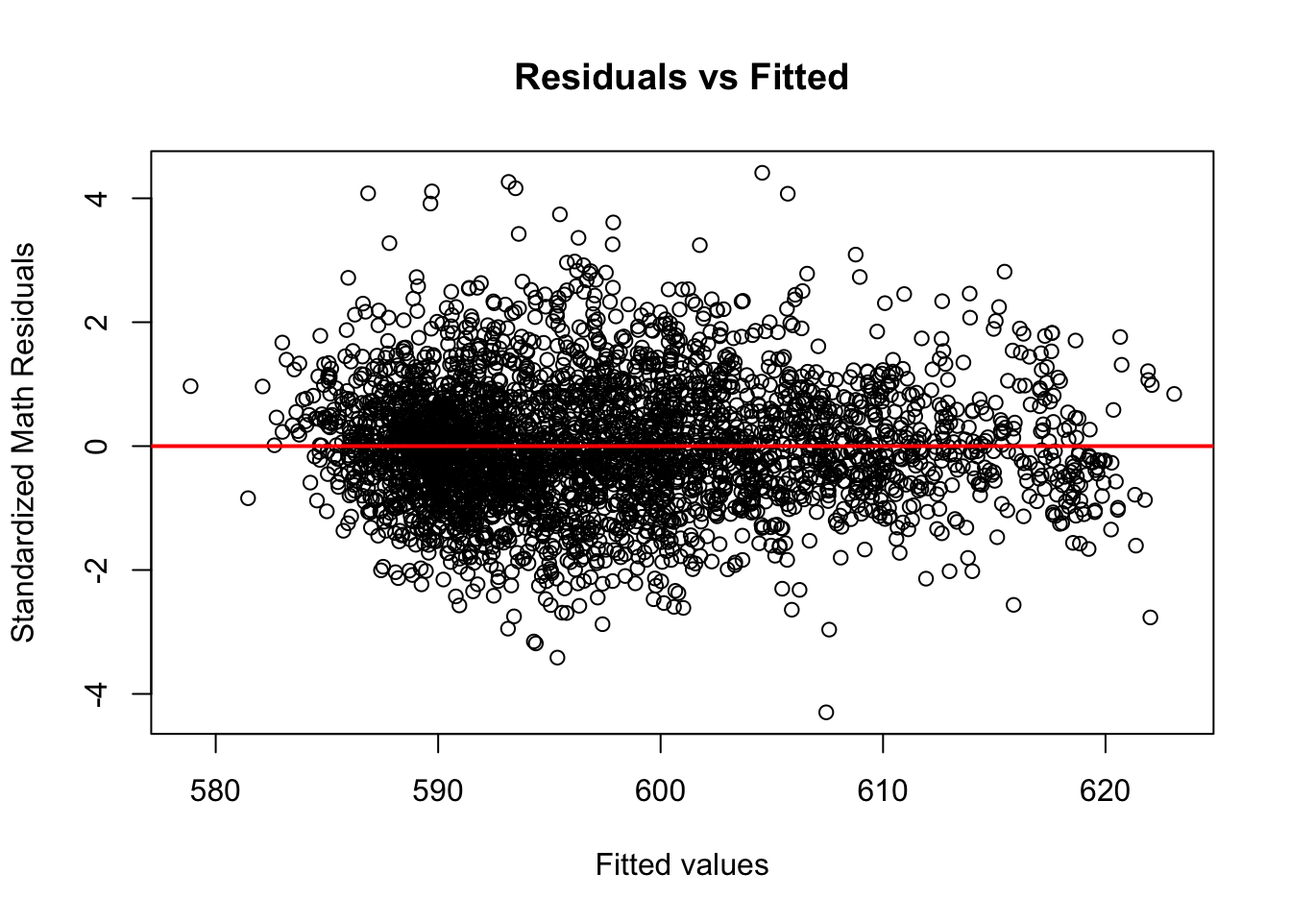
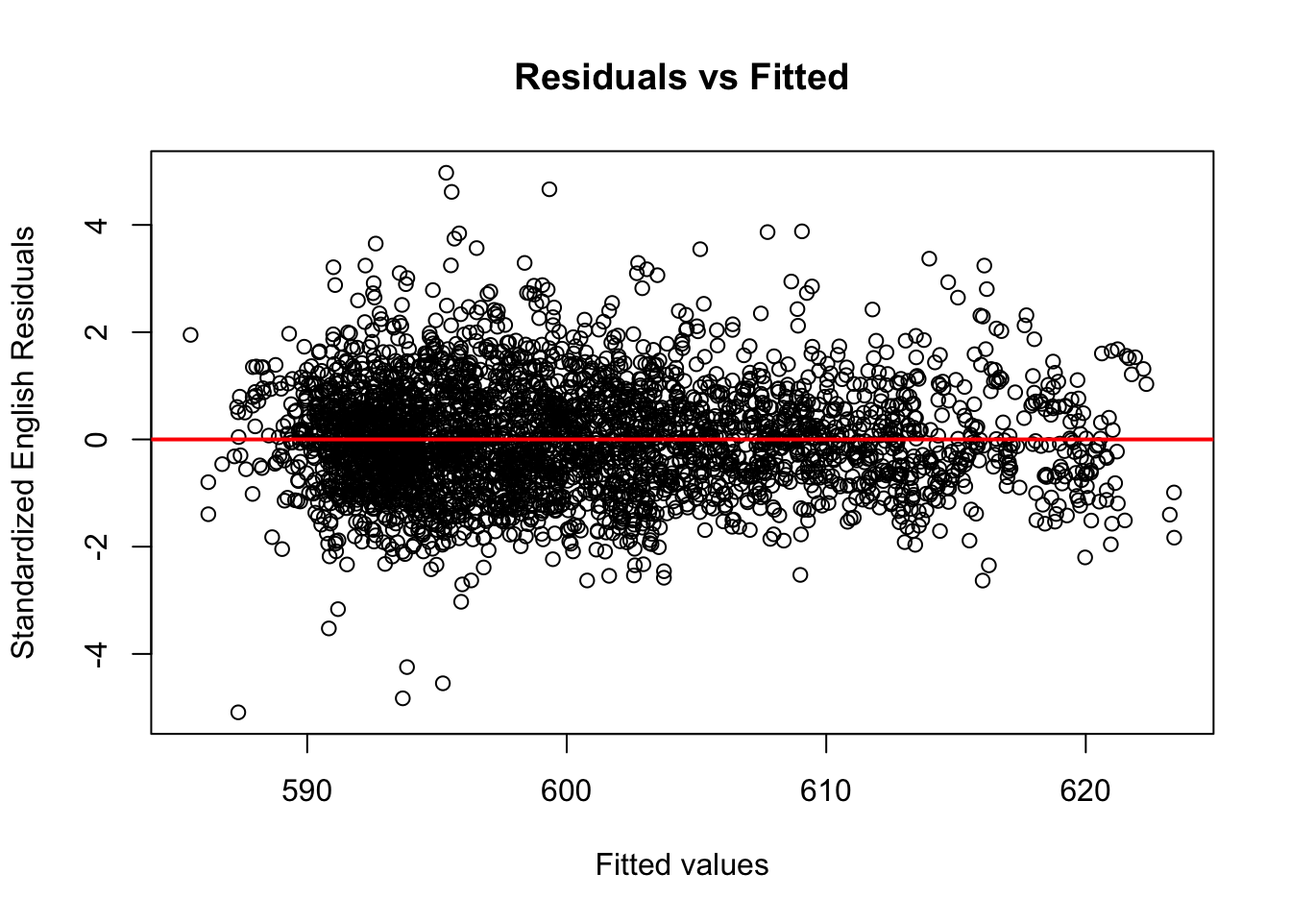
Section 4.1 edits

diff --git a/docs/results.html b/docs/results.html
@@ -23,7 +23,7 @@
 <meta name="author" content="Woomy Michel and Dillon Sparks" />
 
 
-<meta name="date" content="2024-07-05" />
+<meta name="date" content="2024-07-18" />
 
   <meta name="viewport" content="width=device-width, initial-scale=1" />
   <meta name="apple-mobile-web-app-capable" content="yes" />
@@ -31,7 +31,7 @@
   
   
 <link rel="prev" href="data.html"/>
-<link rel="next" href="interactive-component.html"/>
+<link rel="next" href="conclusion.html"/>
 <script src="libs/jquery-3.6.0/jquery-3.6.0.min.js"></script>
 <script src="https://cdn.jsdelivr.net/npm/fuse.js@6.4.6/dist/fuse.min.js"></script>
 <link href="libs/gitbook-2.6.7/css/style.css" rel="stylesheet" />
@@ -103,6 +103,7 @@
 <li class="chapter" data-level="4.1.3" data-path="results.html"><a href="results.html#correlation-analysis"><i class="fa fa-check"></i><b>4.1.3</b> Correlation Analysis</a></li>
 <li class="chapter" data-level="4.1.4" data-path="results.html"><a href="results.html#density-histogram-of-test-scores"><i class="fa fa-check"></i><b>4.1.4</b> Density Histogram of Test Scores</a></li>
 <li class="chapter" data-level="4.1.5" data-path="results.html"><a href="results.html#confidence-intervals"><i class="fa fa-check"></i><b>4.1.5</b> Confidence Intervals</a></li>
+<li class="chapter" data-level="4.1.6" data-path="results.html"><a href="results.html#main-takeaways"><i class="fa fa-check"></i><b>4.1.6</b> Main Takeaways</a></li>
 </ul></li>
 <li class="chapter" data-level="4.2" data-path="results.html"><a href="results.html#analyzing-student-demographics"><i class="fa fa-check"></i><b>4.2</b> Analyzing student demographics</a>
 <ul>
@@ -118,11 +119,10 @@
 <li class="chapter" data-level="4.3.4" data-path="results.html"><a href="results.html#glm-math"><i class="fa fa-check"></i><b>4.3.4</b> GLM (Math)</a></li>
 </ul></li>
 </ul></li>
-<li class="chapter" data-level="5" data-path="interactive-component.html"><a href="interactive-component.html"><i class="fa fa-check"></i><b>5</b> Interactive component</a></li>
-<li class="chapter" data-level="6" data-path="conclusion.html"><a href="conclusion.html"><i class="fa fa-check"></i><b>6</b> Conclusion</a></li>
-<li class="chapter" data-level="7" data-path="appendix.html"><a href="appendix.html"><i class="fa fa-check"></i><b>7</b> Appendix</a>
+<li class="chapter" data-level="5" data-path="conclusion.html"><a href="conclusion.html"><i class="fa fa-check"></i><b>5</b> Conclusion</a></li>
+<li class="chapter" data-level="6" data-path="appendix.html"><a href="appendix.html"><i class="fa fa-check"></i><b>6</b> Appendix</a>
 <ul>
-<li class="chapter" data-level="7.1" data-path="appendix.html"><a href="appendix.html#data-cleaningtransformation"><i class="fa fa-check"></i><b>7.1</b> Data Cleaning/Transformation</a></li>
+<li class="chapter" data-level="6.1" data-path="appendix.html"><a href="appendix.html#data-cleaningtransformation"><i class="fa fa-check"></i><b>6.1</b> Data Cleaning/Transformation</a></li>
 </ul></li>
 <li class="divider"></li>
 <li><a href="https://github.com/rstudio/bookdown" target="blank">Published with bookdown</a></li>
@@ -147,10 +147,10 @@
 <h1><span class="header-section-number">Chapter 4</span> Results<a href="results.html#results" class="anchor-section" aria-label="Anchor link to header"></a></h1>
 <div id="analyzing-standardized-test-scores" class="section level2 hasAnchor" number="4.1">
 <h2><span class="header-section-number">4.1</span> Analyzing standardized test scores<a href="results.html#analyzing-standardized-test-scores" class="anchor-section" aria-label="Anchor link to header"></a></h2>
+<p>In order to investigate the larger question of how student demographics impact test scores, we need to take analyze the test scores themselves.</p>
 <div id="descriptive-statistics" class="section level3 hasAnchor" number="4.1.1">
 <h3><span class="header-section-number">4.1.1</span> Descriptive Statistics<a href="results.html#descriptive-statistics" class="anchor-section" aria-label="Anchor link to header"></a></h3>
-<p> 
- </p>
+<p>First, we’ll start off by looking at a few descriptive statistics to see what they tell us about the Math and ELA test scores. The tables below contain basic descriptive statistics for each exam over the years. Each data point, i.e. test score, represents the mean score from grades 3-8 in the respective exam.</p>
 <table class="table table-condensed">
 <thead>
 <tr>
@@ -282,6 +282,11 @@ Shapiro-Wilk p value
 </tr>
 </tbody>
 </table>
+<p>Here are a few notes about this table:</p>
+<ul>
+<li><p>The p-value for our Shapiro-Wilk normality test is 0 each year. This means the distribution of test scores is not normal in any year, and we must keep this in mind for any analyses/visualizations done with this data.</p></li>
+<li><p>2022 was an interesting year because    </p></li>
+</ul>
 <table class="table table-condensed">
 <thead>
 <tr>
@@ -413,27 +418,22 @@ Shapiro-Wilk p value
 </tr>
 </tbody>
 </table>
-<p> 
- </p>
 </div>
 <div id="reading-vs.-math-scatterplot" class="section level3 hasAnchor" number="4.1.2">
 <h3><span class="header-section-number">4.1.2</span> Reading vs. Math Scatterplot<a href="results.html#reading-vs.-math-scatterplot" class="anchor-section" aria-label="Anchor link to header"></a></h3>
-<p>In investigating the relationship between Reading and Math scores, we started very broad by asking ourselves if there is a correlation between success on Math &amp; success on ELA. We chose to break this down at the school level, because there is a lot more data for us to work with.</p>
-<p> 
- </p>
-<p><img src="finalproj_files/figure-html/unnamed-chunk-7-1.png" width="672" />
- 
- </p>
-<p>The graphs above are three scatterplots of reading vs math test scores, separated based on the year the test was taken. The two main takeaways here are that there seems to be a strong positive correlation between reading and math scores in all three years, as one might expect. In other words, schools that performed well in math usually did well on reading too, and vice-versa. There were a few outliers each year, where some schools did noticeably better on math than on reading. There were also a few, less noticeable, schools who performed slightly better on ELA than on math.</p>
-<p> 
- </p>
+<p>In investigating the relationship between Reading and Math scores, we started very broad by asking ourselves: <b> is there a correlation between success on Math &amp; success on ELA? </b> We chose to break this down at the school level, because there is more data for us to work with compared to scores at the district level.</p>
+<p>   </p>
+<p><img src="finalproj_files/figure-html/unnamed-chunk-8-1.png" width="672" /></p>
+<p>   </p>
+<p>The graphs above are three scatterplots of reading vs math test scores, separated based on the year the test was taken. The first main takeaway here is that there seems to be a strong positive correlation between reading and math scores in all three years, as one might expect. In other words, schools that performed well in math usually did well on reading too, and vice-versa. There were a few outliers each year, where some schools did noticeably better on math than on reading. There were also a few, less noticeable, schools who performed slightly better on ELA than on math.</p>
+<p>The second big takeaway from these scatterplots is that math scores were noticeably lower in 2022 than in years prior. There is also more variance in scores in 2022, which is demonstrated by higher variance of our scatterplot than in the other two years. We can likely attribute this to the onset of the Covid-19 global pandemic, which abruptly forced students to adapt to online learning for anywhere between six months to an entire school year.</p>
+<p>   </p>
 </div>
 <div id="correlation-analysis" class="section level3 hasAnchor" number="4.1.3">
 <h3><span class="header-section-number">4.1.3</span> Correlation Analysis<a href="results.html#correlation-analysis" class="anchor-section" aria-label="Anchor link to header"></a></h3>
-<p>Let’s find the correlation between the Math and ELA scores to gain more insight on them analytically:</p>
-<p>Since the Math and ELA scores are not normally distributed in any year we will use the Spearman’s correlation to examine the strength of the linear relationship between scores in each year. The data meets the assumptions for calculating Spearman’s correlation coefficient because test scores each year are on an interval scale, they represent paired observations, and they have a monotonic relationship (as shown above). This is what we get:</p>
-<p> 
- </p>
+<p>Now that we have examined the linear relationship between Math and ELA scores graphically, let’s see if we can find any more information by doing so analytically.</p>
+<p>We will use the Spearman’s correlation to examine the strength of the linear relationship between scores in each year since they are not normally distributed. The data meets the assumptions for calculating Spearman’s correlation coefficient because test scores each year are on an interval scale, they represent paired observations, and they have a monotonic relationship (as shown above). This is what we get:</p>
+<p>   </p>
 <table class="table table-condensed">
 <thead>
 <tr>
@@ -467,35 +467,25 @@ Spearman correlation coefficient
 </tr>
 </tbody>
 </table>
-<p> 
- </p>
-<p>The second big takeaway from these scatterplots is that math scores were much lower in 2022 than in years prior. There is also more variance in scores in 2022, which is demonstrated by the relatively lower correlation coefficient and the higher variance of our scatterplot than in the other two years. We can likely attribute this to the onset of the Covid-19 global pandemic, which abruptly forced students to adapt to online learning for anywhere between six months to an entire school year.</p>
-<p>Let’s look at the spread of the scores during these years:</p>
-<p>Looking at this table we can confirm that the variance was higher for Math &amp; ELA in 2022.</p>
-<p> 
- </p>
+<p>   </p>
+<p>Looking at this table, we can see that the linear relationship between scores on the two exams is fairly strong, as expected. Furthermore, the correlation coefficient was slightly lower in 2022 as we saw from our scatterplot. Generally speaking, we know that a relatively high achieveing Math school also did well on ELA (and vice-versa). However, this leads us to wonder <b> is there a difference between Math and ELA scores over the years?</b></p>
+<p>   </p>
 </div>
 <div id="density-histogram-of-test-scores" class="section level3 hasAnchor" number="4.1.4">
 <h3><span class="header-section-number">4.1.4</span> Density Histogram of Test Scores<a href="results.html#density-histogram-of-test-scores" class="anchor-section" aria-label="Anchor link to header"></a></h3>
-<p> 
- </p>
-<p>Now that we’ve investigated the relationship between success on both exams, we want to know which exam students actually performed better on, over the years. Again, we are looking at this data on the school level because there is more data to work with.</p>
-<p> 
- </p>
-<p><img src="finalproj_files/figure-html/unnamed-chunk-9-1.png" width="672" /></p>
-<p> 
- </p>
-<p>Looking at our density histograms, we can see that there is a lot of overlap between scores in both subjects in this three year sample size. At first glance, it seems like student’s are performing slightly better on ELA than Math.</p>
-<p> 
- </p>
+<p>   </p>
+<p>Again, we will start with a visualization to investigate the question of which exam students actually performed better on, over the years. Again, we are looking at this data on the school level because there is more data to work with, and thus, more nuance to be uncovered.</p>
+<p>   </p>
+<p><img src="finalproj_files/figure-html/unnamed-chunk-10-1.png" width="672" /></p>
+<p>   </p>
+<p>Looking at our density histograms, we can see that there is a lot of overlap between scores in both subjects in this three year sample size. At first glance, the relatively higher concentration of ELA scores from 600 onwards suggests that student’s performed slightly better on ELA than Math each year. This is particularly true in 2022 where scores on the exams are most distinguishable.</p>
+<p>   </p>
 </div>
 <div id="confidence-intervals" class="section level3 hasAnchor" number="4.1.5">
 <h3><span class="header-section-number">4.1.5</span> Confidence Intervals<a href="results.html#confidence-intervals" class="anchor-section" aria-label="Anchor link to header"></a></h3>
-<p> 
- </p>
-<p>In order to test the significance of the difference in test scores, we can utilize the t-test. Our null-hypothesis is that the two sample means are equal (or that the test scores are the same).</p>
-<p> 
- </p>
+<p>   </p>
+<p>In order to test the significance of the difference in test scores, we can utilize the Wilcox Test to estimate the difference . We cannot use the traditional paired t-test because our data is not normal. Our null-hypothesis is that the two sample means are equal (or that the test scores for ELA and Math are the same).</p>
+<p>   </p>
 <table class="table table-condensed">
 <thead>
 <tr>
@@ -557,44 +547,36 @@ Wilcox test p-value
 </tr>
 </tbody>
 </table>
-<p> 
- </p>
-<p>Looking at the result of our t-test, we cannot reject the null hypothesis that our two sample means are the same, even at the 1% level of significance! Therefore, there is no evidence of a significant difference between math &amp; reading scores during the three year period that our data comes from.</p>
-<p>Even when we repeat the test only looking at the year 2022 (where we noticed a bigger difference than years prior in our density histogram), there is still not enough evidence to reject the null hypothesis that the two sample means are the same, once again at the 1% level of significance.</p>
-<p> 
- </p>
+<p>   </p>
+<p>Looking at the result of our test for each year (<b> p = 0 &lt; 0.01 </b>), we can reject the null hypothesis that our two sample means are the same, even at the 1% level of significance! Therefore, we have evidence of a statistically significant difference between the median Math &amp; ELA scores in each year observed. It is notable that the 99% confidence interval, (-2.671, -2.384), is the same for each year. Thus, we are 99% confident that the true median difference between Math and ELA scores is between (-2.671, -2.384).</p>
+</div>
+<div id="main-takeaways" class="section level3 hasAnchor" number="4.1.6">
+<h3><span class="header-section-number">4.1.6</span> Main Takeaways<a href="results.html#main-takeaways" class="anchor-section" aria-label="Anchor link to header"></a></h3>
+<p>In summary, we know schools that performed relatively well on one exam were also successful on the other. Furthermore, there is evidence that students performed about 3 points better on ELA than Math, each year.</p>
+<p>   </p>
 </div>
 </div>
 <div id="analyzing-student-demographics" class="section level2 hasAnchor" number="4.2">
 <h2><span class="header-section-number">4.2</span> Analyzing student demographics<a href="results.html#analyzing-student-demographics" class="anchor-section" aria-label="Anchor link to header"></a></h2>
-<p> 
- </p>
+<p>   </p>
 <div id="race-at-the-citywide-level" class="section level3 hasAnchor" number="4.2.1">
 <h3><span class="header-section-number">4.2.1</span> Race at the citywide level<a href="results.html#race-at-the-citywide-level" class="anchor-section" aria-label="Anchor link to header"></a></h3>
-<p> 
- </p>
-<div class="echarts4r html-widget html-fill-item" id="htmlwidget-2b008b8fb457b8d08389" style="width:100%;height:500px;"></div>
-<script type="application/json" data-for="htmlwidget-2b008b8fb457b8d08389">{"x":{"theme":"","tl":false,"draw":true,"renderer":"canvas","events":[],"buttons":[],"opts":{"legend":{"data":["Asian","Black","Hispanic","White","Other"],"show":true,"type":"plain","right":0,"orient":"vertical","top":50},"series":[{"name":"percentage","type":"pie","radius":["50%","70%"],"itemStyle":{"borderRadius":10,"borderColor":"#fff","borderWidth":0.5},"data":[{"value":0.1818145280637012,"name":"Asian"},{"value":0.206917340074228,"name":"Black"},{"value":0.415692310953227,"name":"Hispanic"},{"value":0.1680276595323091,"name":"White"},{"value":0.02594785378954487,"name":"Other"}]}],"toolbox":{"feature":{"restore":[],"magicType":[],"dataView":[],"saveAsImage":[]}},"tooltip":{"trigger":"axis"},"color":["#EFF3FF","#BDD7E7","#6BAED6","#3182BD","#08519C"],"title":[{"left":"center","top":5,"text":"Citywide Racial Demographics of NYC Students","subtext":"Using aggregated data from 2018, 2019, and 2022"}]},"dispose":true},"evals":[],"jsHooks":[]}</script>
-<p> 
- 
- 
- </p>
+<p>   </p>
+<div class="echarts4r html-widget html-fill-item" id="htmlwidget-d79e42270fc722b27c17" style="width:100%;height:500px;"></div>
+<script type="application/json" data-for="htmlwidget-d79e42270fc722b27c17">{"x":{"theme":"","tl":false,"draw":true,"renderer":"canvas","events":[],"buttons":[],"opts":{"legend":{"data":["Asian","Black","Hispanic","White","Other"],"show":true,"type":"plain","right":0,"orient":"vertical","top":50},"series":[{"name":"percentage","type":"pie","radius":["50%","70%"],"itemStyle":{"borderRadius":10,"borderColor":"#fff","borderWidth":0.5},"data":[{"value":0.1818145280637012,"name":"Asian"},{"value":0.206917340074228,"name":"Black"},{"value":0.415692310953227,"name":"Hispanic"},{"value":0.1680276595323091,"name":"White"},{"value":0.02594785378954487,"name":"Other"}]}],"toolbox":{"feature":{"restore":[],"magicType":[],"dataView":[],"saveAsImage":[]}},"tooltip":{"trigger":"axis"},"color":["#EFF3FF","#BDD7E7","#6BAED6","#3182BD","#08519C"],"title":[{"left":"center","top":5,"text":"Citywide Racial Demographics of NYC Students","subtext":"Using aggregated data from 2018, 2019, and 2022"}]},"dispose":true},"evals":[],"jsHooks":[]}</script>
+<p>       </p>
 </div>
 <div id="other-demographics-at-the-citywide-level" class="section level3 hasAnchor" number="4.2.2">
 <h3><span class="header-section-number">4.2.2</span> Other demographics at the citywide level<a href="results.html#other-demographics-at-the-citywide-level" class="anchor-section" aria-label="Anchor link to header"></a></h3>
-<p> 
- </p>
-<div class="echarts4r html-widget html-fill-item" id="htmlwidget-cd2769416066aa8dd5b2" style="width:100%;height:500px;"></div>
-<script type="application/json" data-for="htmlwidget-cd2769416066aa8dd5b2">{"x":{"theme":"","tl":false,"draw":true,"renderer":"canvas","events":[],"buttons":[],"opts":{"yAxis":[{"show":true}],"xAxis":[{"data":["2018","2019","2022"],"type":"category","boundaryGap":true}],"legend":{"data":["English language learners","Students with disabilities","Students living in poverty","Economic Need Index"],"show":true,"type":"plain","orient":"horizontal","bottom":10},"series":[{"data":[{"value":["2018","0.1537201"]},{"value":["2019","0.1490164"]},{"value":["2022","0.1626084"]}],"name":"English language learners","type":"bar","yAxisIndex":0,"xAxisIndex":0,"coordinateSystem":"cartesian2d","stack":"grp1"},{"data":[{"value":["2018","0.2008541"]},{"value":["2019","0.2052381"]},{"value":["2022","0.1986964"]}],"name":"Students with disabilities","type":"bar","yAxisIndex":0,"xAxisIndex":0,"coordinateSystem":"cartesian2d","stack":"grp2"},{"data":[{"value":["2018","0.7465891"]},{"value":["2019","0.7317927"]},{"value":["2022","0.7229357"]}],"name":"Students living in poverty","type":"bar","yAxisIndex":0,"xAxisIndex":0,"coordinateSystem":"cartesian2d","stack":"grp3"},{"data":[{"value":["2018","0.7282144"]},{"value":["2019","0.7247252"]},{"value":["2022","0.7215998"]}],"name":"Economic Need Index","type":"bar","yAxisIndex":0,"xAxisIndex":0,"coordinateSystem":"cartesian2d","stack":"grp4"}],"toolbox":{"feature":{"restore":[],"magicType":{"type":["line"]},"dataView":[],"saveAsImage":[]}},"tooltip":{"trigger":"axis"},"color":["#EFF3FF","#BDD7E7","#6BAED6","#2171B5"]},"dispose":true},"evals":[],"jsHooks":[]}</script>
-<p> 
- </p>
+<p>   </p>
+<div class="echarts4r html-widget html-fill-item" id="htmlwidget-0263b9ab8b0c6b3c3cb5" style="width:100%;height:500px;"></div>
+<script type="application/json" data-for="htmlwidget-0263b9ab8b0c6b3c3cb5">{"x":{"theme":"","tl":false,"draw":true,"renderer":"canvas","events":[],"buttons":[],"opts":{"yAxis":[{"show":true}],"xAxis":[{"data":["2018","2019","2022"],"type":"category","boundaryGap":true}],"legend":{"data":["English language learners","Students with disabilities","Students living in poverty","Economic Need Index"],"show":true,"type":"plain","orient":"horizontal","bottom":10},"series":[{"data":[{"value":["2018","0.1537201"]},{"value":["2019","0.1490164"]},{"value":["2022","0.1626084"]}],"name":"English language learners","type":"bar","yAxisIndex":0,"xAxisIndex":0,"coordinateSystem":"cartesian2d","stack":"grp1"},{"data":[{"value":["2018","0.2008541"]},{"value":["2019","0.2052381"]},{"value":["2022","0.1986964"]}],"name":"Students with disabilities","type":"bar","yAxisIndex":0,"xAxisIndex":0,"coordinateSystem":"cartesian2d","stack":"grp2"},{"data":[{"value":["2018","0.7465891"]},{"value":["2019","0.7317927"]},{"value":["2022","0.7229357"]}],"name":"Students living in poverty","type":"bar","yAxisIndex":0,"xAxisIndex":0,"coordinateSystem":"cartesian2d","stack":"grp3"},{"data":[{"value":["2018","0.7282144"]},{"value":["2019","0.7247252"]},{"value":["2022","0.7215998"]}],"name":"Economic Need Index","type":"bar","yAxisIndex":0,"xAxisIndex":0,"coordinateSystem":"cartesian2d","stack":"grp4"}],"toolbox":{"feature":{"restore":[],"magicType":{"type":["line"]},"dataView":[],"saveAsImage":[]}},"tooltip":{"trigger":"axis"},"color":["#EFF3FF","#BDD7E7","#6BAED6","#2171B5"]},"dispose":true},"evals":[],"jsHooks":[]}</script>
+<p>   </p>
 </div>
 <div id="descriptive-statistics-diversity-scores" class="section level3 hasAnchor" number="4.2.3">
 <h3><span class="header-section-number">4.2.3</span> Descriptive statistics &amp; Diversity scores<a href="results.html#descriptive-statistics-diversity-scores" class="anchor-section" aria-label="Anchor link to header"></a></h3>
-<p> 
- </p>
-<p>((Diversity Index) [<a href="https://geographyfieldwork.com/Simpson&#39;sDiversityIndex.htm#" class="uri">https://geographyfieldwork.com/Simpson'sDiversityIndex.htm#</a>:~:text=Simpson’s%20Diversity%20Index%20is%20a,evenness%20increase%2C%20so%20diversity%20increases.&amp;text=The%20value%20of%20D%20ranges%20between%200%20and%201.]
-)</p>
+<p>   </p>
+<p>((Diversity Index) [<a href="https://geographyfieldwork.com/Simpson&#39;sDiversityIndex.htm#" class="uri">https://geographyfieldwork.com/Simpson’sDiversityIndex.htm#</a>:~:text=Simpson’s%20Diversity%20Index%20is%20a,evenness%20increase%2C%20so%20diversity%20increases.&amp;text=The%20value%20of%20D%20ranges%20between%200%20and%201.] )</p>
 <table class="table table-condensed">
 <thead>
 <tr>
@@ -1657,23 +1639,17 @@ Diversity
 </tr>
 </tbody>
 </table>
-<p> 
- 
- 
- </p>
+<p>       </p>
 </div>
 </div>
 <div id="regression-analysis" class="section level2 hasAnchor" number="4.3">
 <h2><span class="header-section-number">4.3</span> Regression Analysis<a href="results.html#regression-analysis" class="anchor-section" aria-label="Anchor link to header"></a></h2>
-<p> 
- </p>
+<p>   </p>
 <p>Need to explain which variables I am getting rid of and justify them</p>
-<p> 
- </p>
+<p>   </p>
 <div id="linear-regression-english" class="section level3 hasAnchor" number="4.3.1">
 <h3><span class="header-section-number">4.3.1</span> Linear Regression (English)<a href="results.html#linear-regression-english" class="anchor-section" aria-label="Anchor link to header"></a></h3>
-<p> 
- </p>
+<p>   </p>
 <pre><code>## 
 ## Call:
 ## lm(formula = `Mean Scale Score_e` ~ `% Poverty` + `% ELL` + `% SWD` + 
@@ -1698,29 +1674,24 @@ Diversity
 ## Residual standard error: 5.555 on 3321 degrees of freedom
 ## Multiple R-squared:  0.664,  Adjusted R-squared:  0.6634 
 ## F-statistic:  1094 on 6 and 3321 DF,  p-value: &lt; 2.2e-16</code></pre>
-<p> 
- </p>
-<p><img src="finalproj_files/figure-html/unnamed-chunk-17-1.png" width="672" /></p>
+<p>   </p>
+<p><img src="finalproj_files/figure-html/unnamed-chunk-18-1.png" width="672" /></p>
 <pre><code>## 
 ##  studentized Breusch-Pagan test
 ## 
 ## data:  english_reg
 ## BP = 183.21, df = 6, p-value &lt; 2.2e-16</code></pre>
-<p><img src="finalproj_files/figure-html/unnamed-chunk-17-2.png" width="672" /></p>
+<p><img src="finalproj_files/figure-html/unnamed-chunk-18-2.png" width="672" /></p>
 <pre><code>## 
 ##  Shapiro-Wilk normality test
 ## 
 ## data:  standardized_eng_residuals
 ## W = 0.98664, p-value &lt; 2.2e-16</code></pre>
-<p> 
- 
- 
- </p>
+<p>       </p>
 </div>
 <div id="linear-regression-math-scores" class="section level3 hasAnchor" number="4.3.2">
 <h3><span class="header-section-number">4.3.2</span> Linear Regression (Math scores)<a href="results.html#linear-regression-math-scores" class="anchor-section" aria-label="Anchor link to header"></a></h3>
-<p> 
- </p>
+<p>   </p>
 <pre><code>## 
 ## Call:
 ## lm(formula = `Mean Scale Score_m` ~ `% Poverty` + `% ELL` + `% SWD` + 
@@ -1745,30 +1716,25 @@ Diversity
 ## Residual standard error: 6.89 on 3321 degrees of freedom
 ## Multiple R-squared:  0.5999, Adjusted R-squared:  0.5992 
 ## F-statistic: 829.9 on 6 and 3321 DF,  p-value: &lt; 2.2e-16</code></pre>
-<p> 
- </p>
-<p><img src="finalproj_files/figure-html/unnamed-chunk-19-1.png" width="672" /></p>
+<p>   </p>
+<p><img src="finalproj_files/figure-html/unnamed-chunk-20-1.png" width="672" /></p>
 <pre><code>## 
 ##  studentized Breusch-Pagan test
 ## 
 ## data:  math_reg
 ## BP = 105.37, df = 6, p-value &lt; 2.2e-16</code></pre>
-<p><img src="finalproj_files/figure-html/unnamed-chunk-19-2.png" width="672" /></p>
+<p><img src="finalproj_files/figure-html/unnamed-chunk-20-2.png" width="672" /></p>
 <pre><code>## 
 ##  Shapiro-Wilk normality test
 ## 
 ## data:  standardized_math_residuals
 ## W = 0.98865, p-value = 1.116e-15</code></pre>
 <p>** Both linear models failed the homoscedasticity (constant variance) and normality assumptions for the standardized residuals. This means we cannot reliably interpret the results from either linear regression model. Next, we will try a Generalized Linear Model (GLM) with a Gamma link function. A Gamma link makes sense here because they are usually used when working with non-negative, continuous, and positive-skewed data.</p>
-<p> 
- </p>
+<p>   </p>
 </div>
 <div id="glm-english" class="section level3 hasAnchor" number="4.3.3">
 <h3><span class="header-section-number">4.3.3</span> GLM (English)<a href="results.html#glm-english" class="anchor-section" aria-label="Anchor link to header"></a></h3>
-<p> 
- 
- 
- </p>
+<p>       </p>
 <pre><code>## 
 ## Call:
 ## glm(formula = `Mean Scale Score_e` ~ `% Poverty` + `% ELL` + 
@@ -1798,13 +1764,11 @@ Diversity
 ## AIC: 20864
 ## 
 ## Number of Fisher Scoring iterations: 3</code></pre>
-<p> 
- </p>
+<p>   </p>
 </div>
 <div id="glm-math" class="section level3 hasAnchor" number="4.3.4">
 <h3><span class="header-section-number">4.3.4</span> GLM (Math)<a href="results.html#glm-math" class="anchor-section" aria-label="Anchor link to header"></a></h3>
-<p> 
- </p>
+<p>   </p>
 <pre><code>## 
 ## Call:
 ## glm(formula = `Mean Scale Score_m` ~ `% Poverty` + `% ELL` + 
@@ -1835,10 +1799,7 @@ Diversity
 ## 
 ## Number of Fisher Scoring iterations: 3</code></pre>
 <p>*** Still need to find out if there are any assumptions i need to make or anything to prove before interpretations ***</p>
-<p> 
- 
- 
- </p>
+<p>       </p>
 
 </div>
 </div>
@@ -1849,7 +1810,7 @@ Diversity
         </div>
       </div>
 <a href="data.html" class="navigation navigation-prev " aria-label="Previous page"><i class="fa fa-angle-left"></i></a>
-<a href="interactive-component.html" class="navigation navigation-next " aria-label="Next page"><i class="fa fa-angle-right"></i></a>
+<a href="conclusion.html" class="navigation navigation-next " aria-label="Next page"><i class="fa fa-angle-right"></i></a>
     </div>
   </div>
 <script src="libs/gitbook-2.6.7/js/app.min.js"></script>

diff --git a/docs/404.html b/docs/404.html
@@ -23,7 +23,7 @@
 <meta name="author" content="Woomy Michel and Dillon Sparks" />
 
 
-<meta name="date" content="2024-07-05" />
+<meta name="date" content="2024-07-18" />
 
   <meta name="viewport" content="width=device-width, initial-scale=1" />
   <meta name="apple-mobile-web-app-capable" content="yes" />
@@ -52,6 +52,12 @@
 <link href="libs/anchor-sections-1.1.0/anchor-sections.css" rel="stylesheet" />
 <link href="libs/anchor-sections-1.1.0/anchor-sections-hash.css" rel="stylesheet" />
 <script src="libs/anchor-sections-1.1.0/anchor-sections.js"></script>
+<link href="libs/htmltools-fill-0.5.8.1/fill.css" rel="stylesheet" />
+<script src="libs/htmlwidgets-1.6.4/htmlwidgets.js"></script>
+<script src="libs/echarts4r-4.8.0/echarts-en.min.js"></script>
+<script src="libs/echarts4r-4.8.0/ecStat.min.js"></script>
+<script src="libs/echarts4r-4.8.0/dataTool.min.js"></script>
+<script src="libs/echarts4r-binding-0.4.5/echarts4r.js"></script>
 
 
 
@@ -97,6 +103,7 @@
 <li class="chapter" data-level="4.1.3" data-path="results.html"><a href="results.html#correlation-analysis"><i class="fa fa-check"></i><b>4.1.3</b> Correlation Analysis</a></li>
 <li class="chapter" data-level="4.1.4" data-path="results.html"><a href="results.html#density-histogram-of-test-scores"><i class="fa fa-check"></i><b>4.1.4</b> Density Histogram of Test Scores</a></li>
 <li class="chapter" data-level="4.1.5" data-path="results.html"><a href="results.html#confidence-intervals"><i class="fa fa-check"></i><b>4.1.5</b> Confidence Intervals</a></li>
+<li class="chapter" data-level="4.1.6" data-path="results.html"><a href="results.html#main-takeaways"><i class="fa fa-check"></i><b>4.1.6</b> Main Takeaways</a></li>
 </ul></li>
 <li class="chapter" data-level="4.2" data-path="results.html"><a href="results.html#analyzing-student-demographics"><i class="fa fa-check"></i><b>4.2</b> Analyzing student demographics</a>
 <ul>
